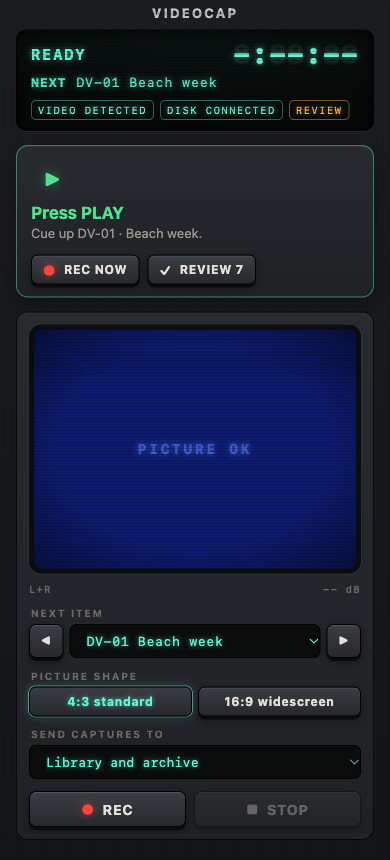
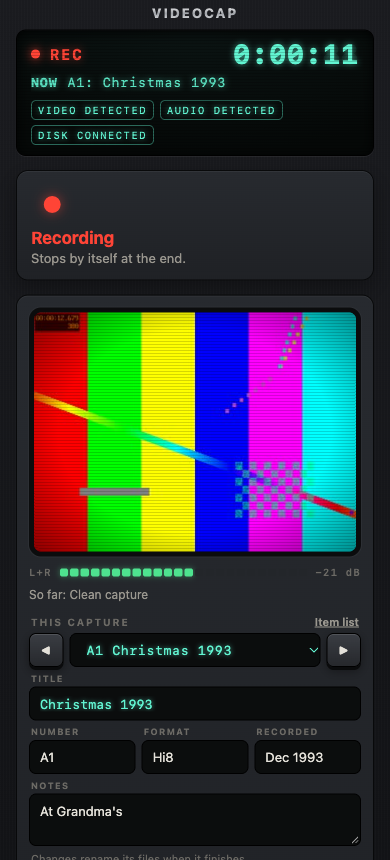
README: a screenshot of the page as it is now

diff --git a/README.md b/README.md
@@ -16,7 +16,7 @@ becomes a lossless master and an MP4, named from your list, with a report of any
 
 NTSC and PAL, standard definition: VHS, Hi8, Betamax, LaserDisc, analog cameras and more.
 
-<img src="https://raw.githubusercontent.com/aidansiegel/videocap/main/docs/web-page.png" width="360" alt="The web page while recording: state, live picture, audio meter, item, elapsed time and damage counts">
+<img src="https://raw.githubusercontent.com/aidansiegel/videocap/main/docs/web-page.png" width="360" alt="The web page while recording: live picture, audio meter, elapsed time, and the capture's title, number, format, date and notes">
 
 ## What you need
 
